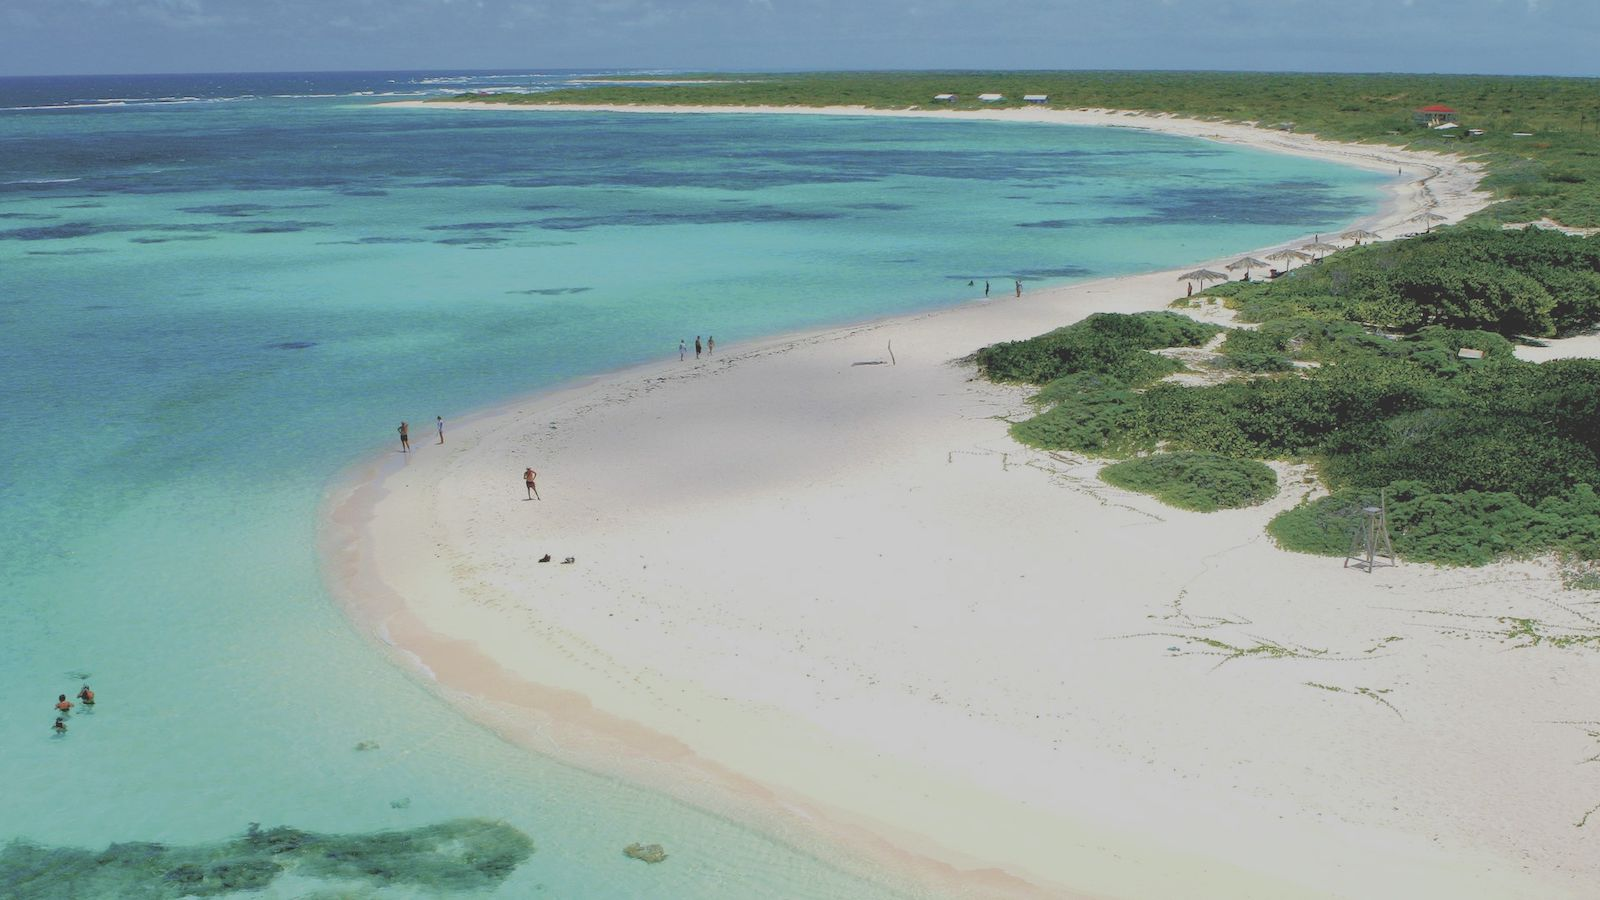
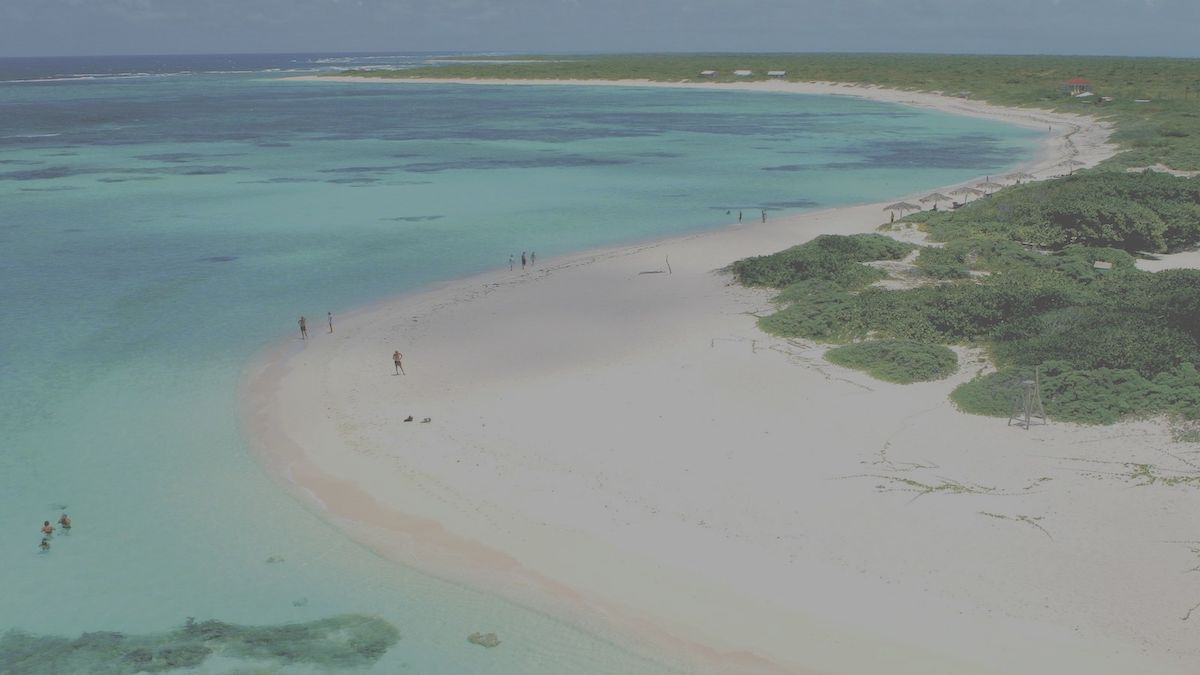
Created the header of the landing page

diff --git a/src/styles.css b/src/styles.css
@@ -1,7 +1,74 @@
-h1 {
+body {
   font-family: "poppins", sans-serif;
-  font-style: normal;
+  background: #061000;
+}
+
+.container {
+  max-width: 1400px;
+  margin: 0 auto;
+}
+
+header {
+  background-image: linear-gradient(rgba(0, 0, 0, 0.4), rgba(0, 0, 0, 0.8)),
+    url("/images/bvi-beach.jpeg");
+  background-repeat: no-repeat;
+  background-size: cover;
+  color: white;
+  text-align: center;
+  padding: 200px 0;
+}
+
+header h1 {
   font-weight: 700;
   font-size: 96px;
-  line-height: 144px;
+  line-height: 1;
+  margin: 30px 0;
+}
+
+header h2 {
+  font-weight: 400;
+  font-size: 40px;
+  line-height: 1.5;
+  margin: 0;
+}
+
+header h3 {
+  font-weight: 900;
+  font-size: 24px;
+  line-height: 1.5;
+  letter-spacing: 5px;
+  margin: 0;
+}
+
+header a {
+  font-weight: 700;
+  font-size: 14px;
+  line-height: 1.5;
+  text-align: center;
+  color: #061000;
+  padding: 16px 32px;
+  margin-top: 32px;
+  display: inline-block;
+  letter-spacing: 3px;
+  text-decoration: none;
+  text-transform: uppercase;
+  background: white;
+}
+
+@media (max-width: 900px) {
+  header {
+    padding: 60px 0;
+  }
+
+  header h1 {
+    font-size: 48px;
+  }
+
+  header h2 {
+    font-size: 20px;
+  }
+
+  header h3 {
+    font-size: 12px;
+  }
 }

diff --git a/index.html b/index.html
@@ -17,17 +17,24 @@
 </head>
 
 <body>
-  <h1>
-    Welcome to the British Virgin Islands
-  </h1>
-  <h2>Capital: Road Town</h2>
+  <div class="container">
+    <header>
+      <h3>.TRAVEL.</h3>
+      <h1>
+        Welcome to the <br />
+        British Virgin Islands
+      </h1>
+      <h2>Capital: Road Town</h2>
+      <a href="#more">Learn More</a>
+    </header>
 
-  <footer>
-    This project was coded by Shanique Sully and is
-    <a href="https://github.com/SSully284/bvi-travel-project" target="_blank">
-      open sourced
-    </a>.
-  </footer>
+    <footer>
+      This project was coded by Shanique Sully and is
+      <a href="https://github.com/SSully284/bvi-travel-project" target="_blank">
+        open sourced
+      </a>.
+    </footer>
+  </div>
 </body>
 
 </html>
